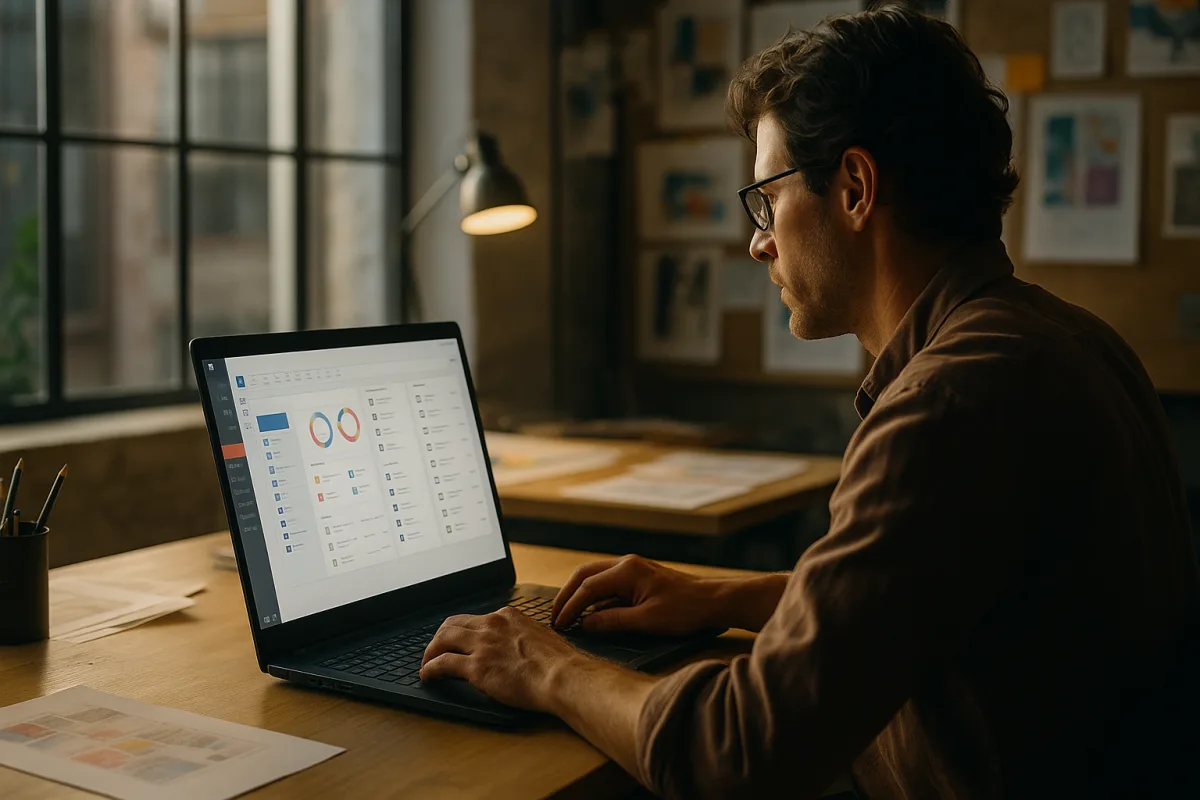
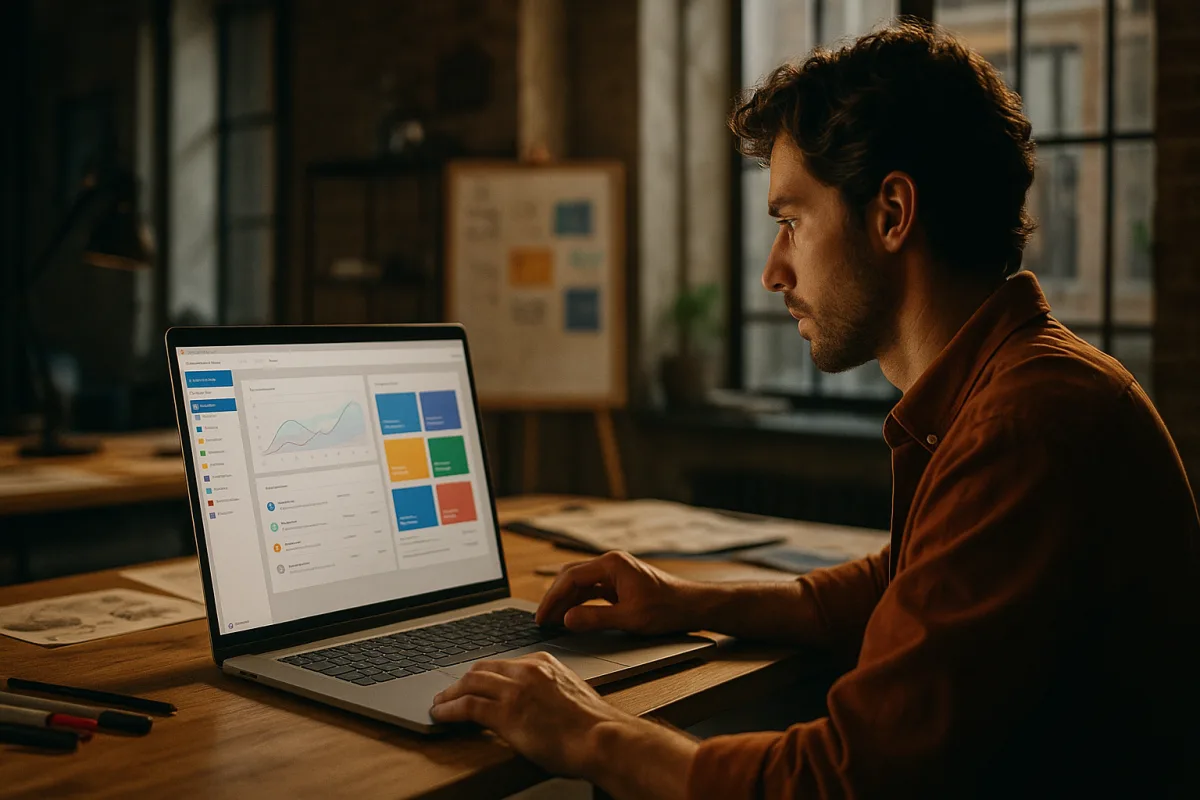
auto-commit for 82f2c072-8fe1-4b10-905f-cd19a1942389

diff --git a/php-version/assets/css/style.css b/php-version/assets/css/style.css
@@ -2006,6 +2006,17 @@ body.has-deal-bar #chat-panel { bottom: 72px; }
   .pc-btn .pc-btn-label { display: none; }
 }
 
+/* Product-card action row — Add + Buy on their own full-width row, split
+   50/50 so neither button is ever clipped by the card (incl. the wider
+   "Added" state). (2026-06-28) */
+.pc-btn-row { width: 100%; }
+.pc-btn-row .pc-btn {
+  flex: 1 1 0;
+  min-width: 0;
+  padding-left: 8px;
+  padding-right: 8px;
+}
+
 /* Product detail page — orange-outlined Buy Now to match screenshot */
 .btn-orange-solid   { background: linear-gradient(135deg, #f97316, #ea580c); color: #fff; border: 1.5px solid transparent; box-shadow: 0 6px 16px rgba(234,88,12,.32); }
 .btn-orange-solid:hover, .btn-orange-solid:focus { background: linear-gradient(135deg, #fb923c, #f97316); color: #fff; box-shadow: 0 10px 24px rgba(234,88,12,.42); transform: translateY(-1px); }
@@ -3622,6 +3633,29 @@ body:not(.adm) .add-to-cart-btn.added:hover {
   background-image: none !important;
   background-color: #0848CC !important;
   border-color: #0848CC !important;
+}
+
+/* Product-card "Added" state — calm green success pill (not another blue)
+   so it reads as a clear confirmation beside the blue "Buy" button. The
+   action buttons sit on their own full-width 50/50 row, so nothing clips. */
+body:not(.adm) .pc-btn-cart.added,
+body:not(.adm) .pc-btn-cart.added:hover,
+body:not(.adm) .pc-btn-cart.added:focus {
+  background-image: none !important;
+  background-color: #ecfdf5 !important;
+  color: #15803d !important;
+  border-color: #86efac !important;
+  box-shadow: none !important;
+}
+body:not(.adm) .pc-btn-cart.added:hover {
+  background-color: #d1fae5 !important;
+  border-color: #4ade80 !important;
+  color: #166534 !important;
+}
+[data-bs-theme="dark"] body:not(.adm) .pc-btn-cart.added {
+  background-color: rgba(34,197,94,.14) !important;
+  color: #86efac !important;
+  border-color: rgba(34,197,94,.42) !important;
 }
 
 /* "Buy Now" secondary pill — soft blue tint with Zoom outline */

diff --git a/php-version/includes/functions.php b/php-version/includes/functions.php
@@ -2204,8 +2204,10 @@ function render_product_card(array $p): string
         ' . $teaserHtml . '
         <div class="mb-2">' . $stockPill . '</div>
         <small class="text-secondary pc-meta mb-2"><i class="bi bi-lightning-charge-fill text-warning me-1"></i>Instant email delivery · One-time purchase</small>
-        <div class="pc-price-row d-flex align-items-center justify-content-between gap-2 mt-auto pt-2">
+        <div class="pc-price-row d-flex align-items-baseline gap-2 mt-auto pt-2">
           <div class="lh-1 d-flex align-items-baseline gap-2"><span class="fw-bold text-primary fs-5">' . format_price((float)$p['price']) . '</span>' . $orig . '<span class="text-secondary" style="font-size:.6rem;font-weight:600;letter-spacing:.04em;" data-testid="card-currency-' . esc($p['slug']) . '">' . esc($curCode) . '</span></div>
+        </div>
+        <div class="pc-btn-row d-flex gap-2 pt-2">
           ' . $cartBtn . '
         </div>
       </div>

diff --git a/memory/PRD.md b/memory/PRD.md
@@ -1140,3 +1140,4 @@ The store already had extensive, valid JSON-LD (Organization, LocalBusiness, Web
 - Added description to the explicit SELECT column lists in brand.php and hub.php (shop.php/category.php/index.php already use SELECT *). style.min.css auto-regenerates from style.css mtime.
 - Verified via screenshots: grid (shop.php) and list (shop.php?view=list) both render the 2-line teaser cleanly. Benefit: more crawlable on-listing text + product-page CTR lift.
 - Follow-up fix (alignment bug): variable title/teaser line counts (1 vs 2 lines) were shifting the In-stock pill/meta/price across cards in a row. Gave .product-title (line-height 1.3, min-height 2.6em) and .pc-teaser (min-height 2.8em) a fixed 2-line reserve so every grid card aligns. Verified: price-row tops identical (445px) across the first row.
+- Follow-up fix (card buttons clipped + ugly "Added" state): the price + Add + Buy were crammed on one line and overflowed the narrow card (Buy clipped by card overflow:hidden), worse in the wider "Added" state. Restructured render_product_card so the price is its own row and the Add/Buy buttons sit on a new full-width .pc-btn-row split 50/50 (flex:1) — nothing clips in any state. Recolored the card "Added" state (body:not(.adm) .pc-btn-cart.added) to a calm green success pill instead of a second heavy blue, so it reads as confirmation beside the blue Buy. Verified via screenshot: both buttons inside card bounds, aligned across all cards.